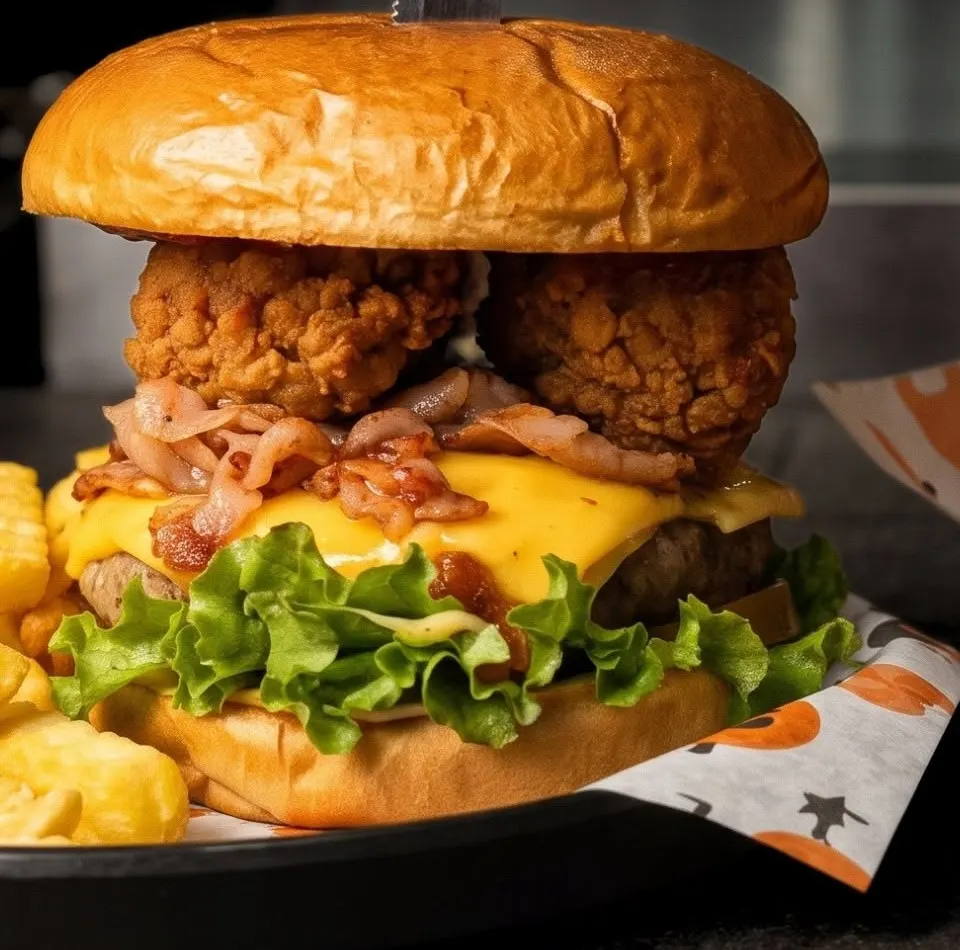
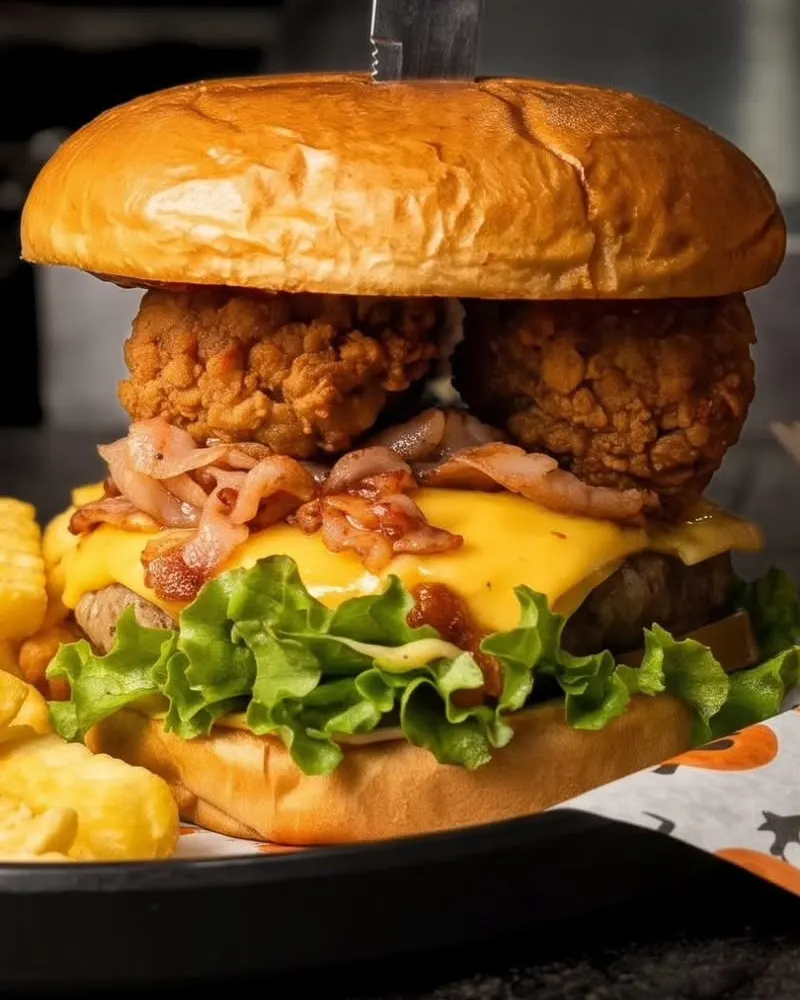
Usar las fotos profesionales del negocio en el menú y la portada

diff --git a/src/data/menu.js b/src/data/menu.js
@@ -33,7 +33,7 @@ export const categorias = [
           { label: 'Medianas 10 pzs', precio: 100 },
           { label: 'Grandes 15 pzs', precio: 145 },
         ],
-        cromo: { img: 'costillas', alt: 'Costillas asadas con aderezo y lechuga', pos: '45% 50%' },
+        cromo: { img: 'costillas', alt: 'Costillas al carbón sobre lechuga en papel a cuadros azul', pos: '50% 62%' },
       },
       {
         id: 'boneless',
@@ -43,6 +43,7 @@ export const categorias = [
           { label: 'Grandes 12 pzs', precio: 120 },
           { label: 'Búfalo 6 pzs', precio: 85 },
         ],
+        cromo: { img: 'boneless', alt: 'Boneless empanizados con papas onduladas', pos: '55% 50%' },
       },
       {
         id: 'tenders',
@@ -51,6 +52,7 @@ export const categorias = [
           { label: 'Orden 3 pzs', precio: 80 },
           { label: 'Búfalo 3 pzs', precio: 100 },
         ],
+        cromo: { img: 'tenders', alt: 'Tiras de pollo crujientes con papas onduladas', pos: '45% 50%' },
       },
       papasIndividuales,
     ],
@@ -72,14 +74,14 @@ export const categorias = [
         nombre: 'Pippen',
         desc: '150 g de carne, 250 g de tocino, jamón, queso manchego, bañada en BBQ.',
         tamanos: uno(120),
-        cromo: { img: 'burger-pippen', alt: 'Hamburguesa con carne, queso y salsa BBQ', pos: '50% 50%' },
+        cromo: { img: 'burger-pippen', alt: 'Hamburguesa alta con carne, queso, tocino y salsa BBQ', pos: '50% 50%' },
       },
       {
         id: 'burger-pollo',
         nombre: 'Pollo',
         desc: '2 tiras de pollo empanizado, queso manchego y tocino.',
         tamanos: uno(100),
-        cromo: { img: 'burger-pollo', alt: 'Hamburguesa con pollo empanizado, queso y tocino', pos: '50% 50%' },
+        cromo: { img: 'burger-pollo', alt: 'Hamburguesa con pollo empanizado, queso, tocino y lechuga', pos: '45% 55%' },
       },
       { id: 'burger-clasica', nombre: 'Clásica', desc: '150 g de carne, salchicha con queso manchego y queso americano.', tamanos: uno(80) },
       { id: 'burger-hawaiana', nombre: 'Hawaiana', desc: '150 g de carne, jamón, piña, queso manchego y queso americano.', tamanos: uno(90) },
@@ -103,7 +105,7 @@ export const categorias = [
         nombre: 'Hot dog Chicago',
         desc: 'Una generosa porción de guacamole y chiles toreados.',
         tamanos: uno(75),
-        cromo: { img: 'hotdog', alt: 'Hot dog con guacamole, cebolla y aderezo', pos: '45% 50%' },
+        cromo: { img: 'hotdog', alt: 'Hot dog cubierto de cebolla asada, guacamole y aderezo', pos: '40% 50%' },
       },
       { id: 'hotdog-clasico', nombre: 'Clásico', desc: 'Un clásico de los hot dogs, con pico de gallo y tocino.', tamanos: uno(50) },
       { id: 'hotdog-hawaiano', nombre: 'Hawaiano', desc: 'Deliciosa mezcla de piña, queso y tocino.', tamanos: uno(65) },
@@ -153,7 +155,13 @@ export const categorias = [
         ],
         cromo: { img: 'papas-francesa', alt: 'Papas a la francesa onduladas y doradas en plato negro', pos: '50% 50%' },
       },
-      { id: 'aros', nombre: 'Aros de cebolla', desc: '6 pzs. Empanizado delicioso y ultra crujiente.', tamanos: uno(50) },
+      {
+        id: 'aros',
+        nombre: 'Aros de cebolla',
+        desc: '6 pzs. Empanizado delicioso y ultra crujiente.',
+        tamanos: uno(50),
+        cromo: { img: 'aros', alt: 'Seis aros de cebolla empanizados con aderezo', pos: '40% 50%' },
+      },
       { id: 'dedos', nombre: 'Dedos de queso', desc: '6 pzs. Crujientes por fuera, explosión de queso por dentro.', tamanos: uno(55) },
       { id: 'jalapeno-bites', nombre: 'Jalapeño bites', desc: '6 pzs. Bolitas crujientes, rellenas de jalapeño, tocino y queso crema.', tamanos: uno(50) },
       { id: 'elote', nombre: 'Elote', desc: '3 pzs.', tamanos: uno(40) },
@@ -179,7 +187,13 @@ export const categorias = [
         ],
         cromo: { img: 'corte', alt: 'Corte a la parrilla con papas gajo y elote en tabla de madera', pos: '55% 50%' },
       },
-      { id: 'burrito-carne', nombre: 'Burrito de pastor o arrachera', desc: 'Tortilla de harina, 200 g de carne mezclada con queso manchego y frijoles.', tamanos: uno(85) },
+      {
+        id: 'burrito-carne',
+        nombre: 'Burrito',
+        desc: 'De pastor o arrachera. Tortilla de harina, 200 g de carne mezclada con queso manchego y frijoles.',
+        tamanos: uno(85),
+        cromo: { img: 'burrito', alt: 'Burrito de carne partido a la mitad sobre papel', pos: '50% 50%' },
+      },
       { id: 'burrito-camaron', nombre: 'Burrito de camarón', desc: 'Tortilla de harina, 200 g de camarón con marinado de la casa, queso manchego y ranch habanero.', tamanos: uno(120) },
       { id: 'gringa', nombre: 'Gringa de pastor o arrachera', desc: 'Tortilla de harina, 200 g de carne con queso manchego.', tamanos: uno(60) },
       { id: 'taco-carne', nombre: 'Taco de pastor o arrachera', desc: '100 g de deliciosa carne y papas.', tamanos: uno(35) },
@@ -314,6 +328,10 @@ const POSICIONES = {
   'hotdog-chicago': 'Escolta',
   banderilla: 'Novata',
   'papas-gajo': 'Reserva',
+  boneless: 'Ala-pívot',
+  tenders: 'Tirador',
+  aros: 'Defensa',
+  'burrito-carne': 'Centro',
   'costilla-elote': 'Refuerzo',
   'papas-francesa': 'Banca',
   cortes: 'Estrella',

diff --git a/src/styles/sitio.css b/src/styles/sitio.css
@@ -1066,7 +1066,7 @@ button {
 
 .baraja {
   display: grid;
-  grid-template-columns: repeat(auto-fill, minmax(min(100%, 280px), 310px));
+  grid-template-columns: repeat(auto-fill, minmax(min(100%, 270px), 300px));
   gap: clamp(16px, 2vw, 28px);
   margin-bottom: clamp(20px, 3vw, 36px);
 }
